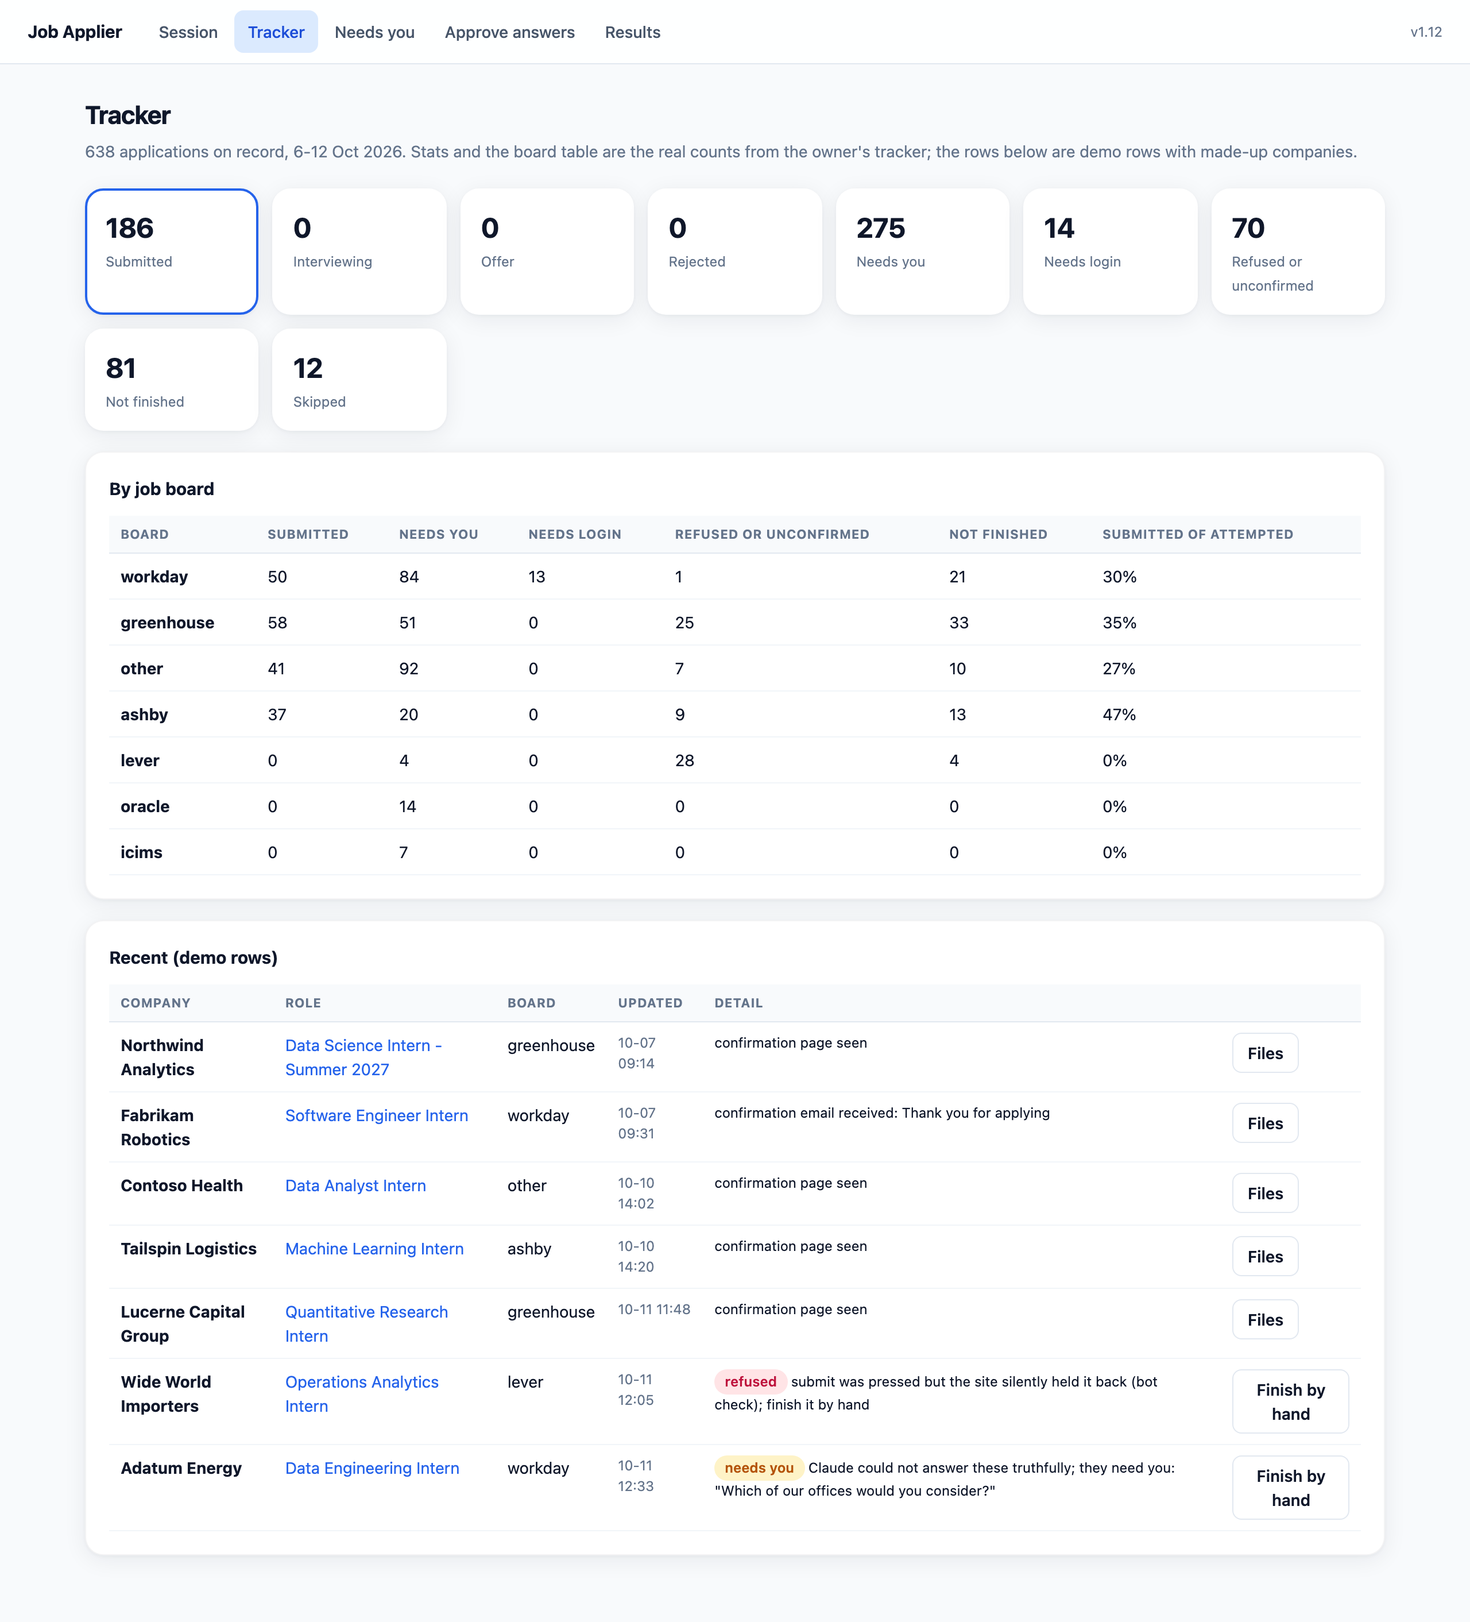
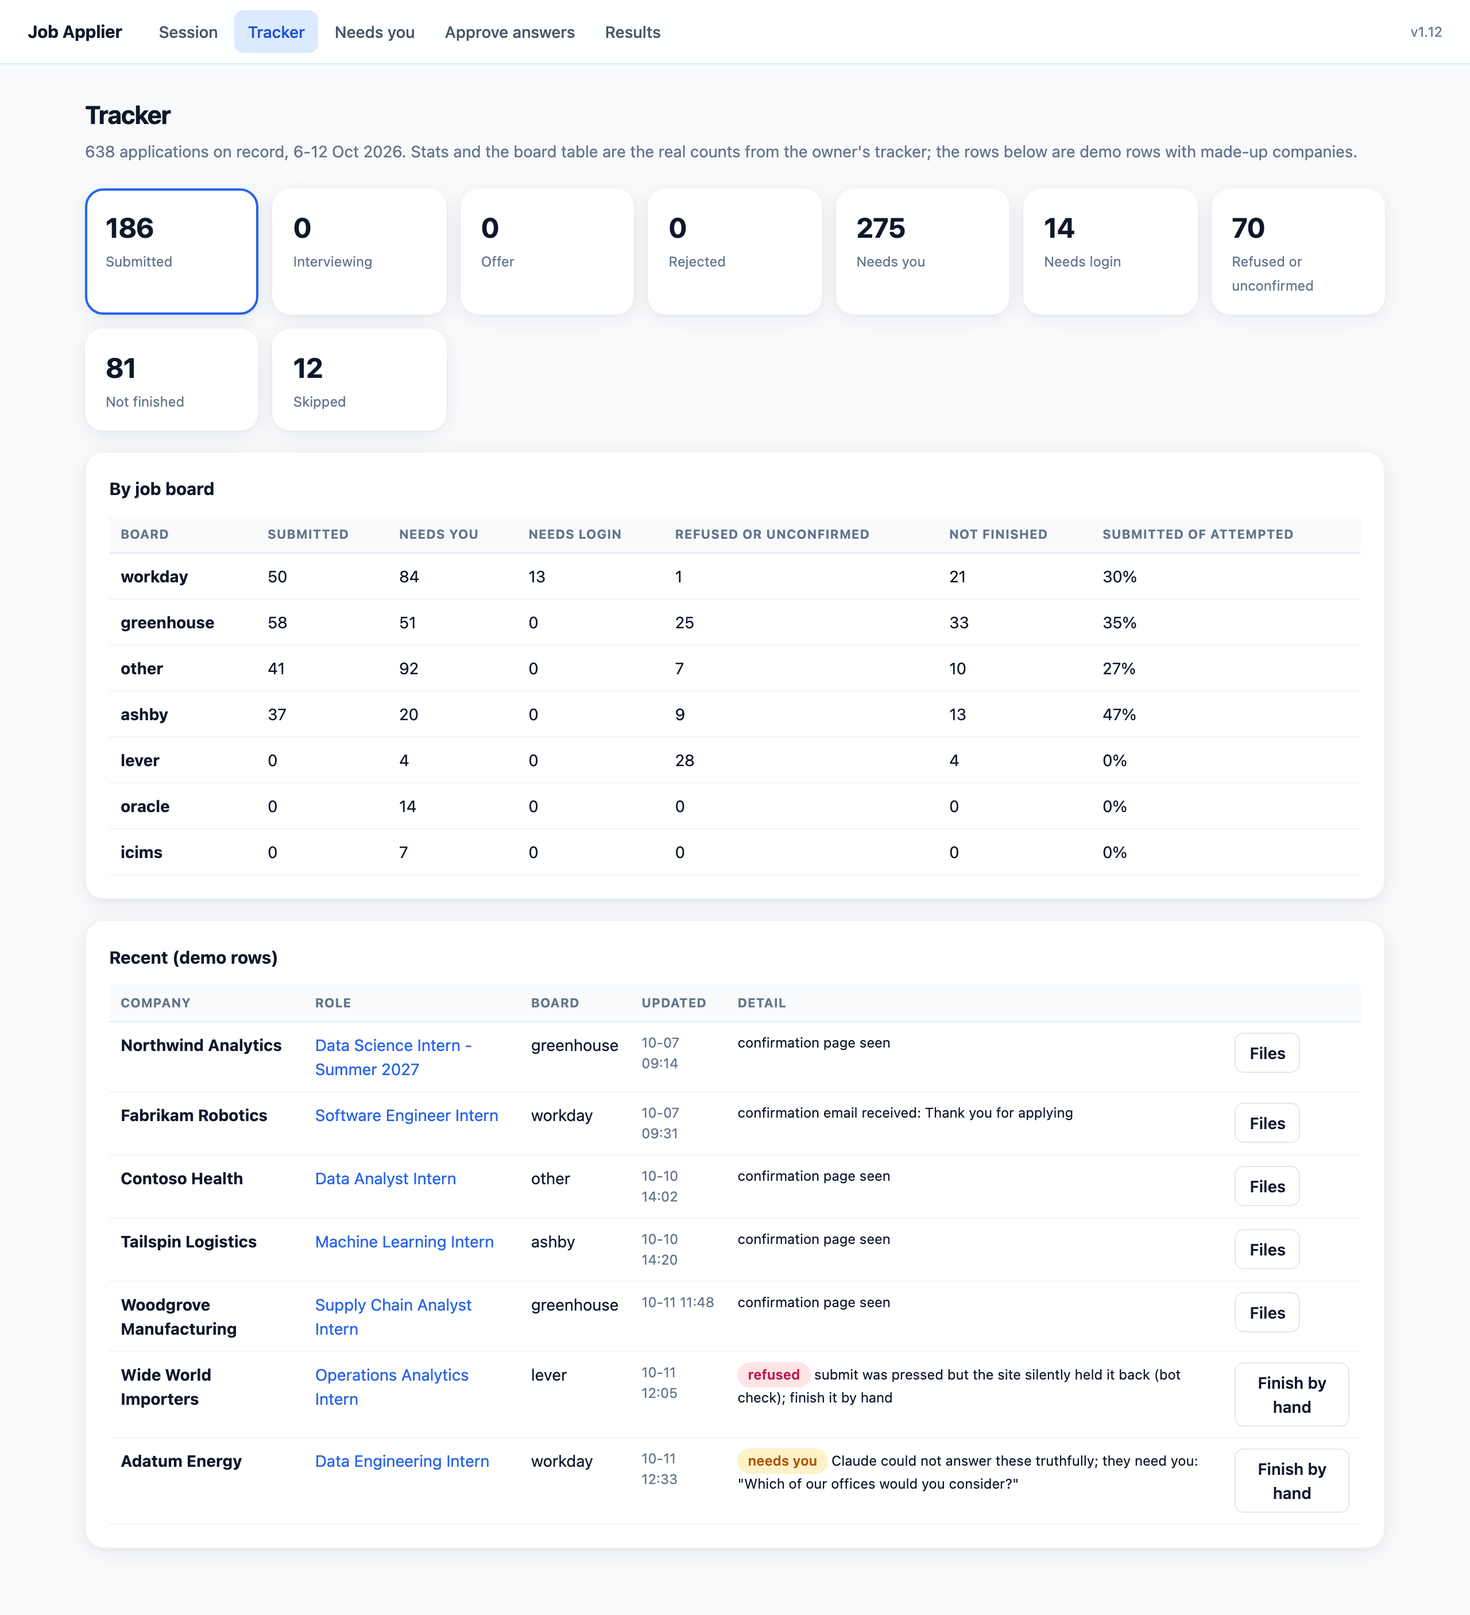
Policy doc rewritten in project voice as docs/platform-policy.md (operator obligations and competitor survey dropped, sources kept); demo tracker row made non-finance and re-rendered; scrub checklist records both greps

diff --git a/assets/demo_tracker.html b/assets/demo_tracker.html
@@ -50,7 +50,7 @@ td{padding:9px 10px;border-bottom:1px solid var(--surface-2);vertical-align:top}
 <tr><td><b>Fabrikam Robotics</b></td><td><a>Software Engineer Intern</a></td><td>workday</td><td class="small muted">10-07 09:31</td><td class="small">confirmation email received: Thank you for applying</td><td><button class="btn">Files</button></td></tr>
 <tr><td><b>Contoso Health</b></td><td><a>Data Analyst Intern</a></td><td>other</td><td class="small muted">10-10 14:02</td><td class="small">confirmation page seen</td><td><button class="btn">Files</button></td></tr>
 <tr><td><b>Tailspin Logistics</b></td><td><a>Machine Learning Intern</a></td><td>ashby</td><td class="small muted">10-10 14:20</td><td class="small">confirmation page seen</td><td><button class="btn">Files</button></td></tr>
-<tr><td><b>Lucerne Capital Group</b></td><td><a>Quantitative Research Intern</a></td><td>greenhouse</td><td class="small muted">10-11 11:48</td><td class="small">confirmation page seen</td><td><button class="btn">Files</button></td></tr>
+<tr><td><b>Woodgrove Manufacturing</b></td><td><a>Supply Chain Analyst Intern</a></td><td>greenhouse</td><td class="small muted">10-11 11:48</td><td class="small">confirmation page seen</td><td><button class="btn">Files</button></td></tr>
 <tr><td><b>Wide World Importers</b></td><td><a>Operations Analytics Intern</a></td><td>lever</td><td class="small muted">10-11 12:05</td><td class="small"><span class="pill refused">refused</span> submit was pressed but the site silently held it back (bot check); finish it by hand</td><td><button class="btn">Finish by hand</button></td></tr>
 <tr><td><b>Adatum Energy</b></td><td><a>Data Engineering Intern</a></td><td>workday</td><td class="small muted">10-11 12:33</td><td class="small"><span class="pill needs_you">needs you</span> Claude could not answer these truthfully; they need you: "Which of our offices would you consider?"</td><td><button class="btn">Finish by hand</button></td></tr>
 </table></div>

diff --git a/docs/platform-policy.md b/docs/platform-policy.md
@@ -1,0 +1,90 @@
+# Job boards and hiring systems: what each platform allows an applicant-side tool to do (research, 2026-10-14)
+
+Written from the applicant's side: the app acts for one person, in their name, with their data and their
+consent, on their own machine. Not legal advice; every quote is from the platform's own published document,
+checked on 2026-10-14. Quotes are at most 15 words. This research is what `applier/boards.py` encodes.
+
+## How the exposure works
+
+Three layers decide what the app may do on a site:
+
+1. **The vendor's terms.** Workday, Greenhouse, Lever, Ashby, SmartRecruiters, Workable, iCIMS, Oracle and SAP
+   host the employer's form. None of them publishes terms that a candidate accepts on the hosted apply page; each
+   says the employer is the controller and the employer's text governs. A few vendor website terms would bind a
+   tool directly if they reached the career sites (Workday: no "applications that interact with our Sites";
+   SAP: no "agent-frameworks", no bypassing controls; Oracle: no "automated means"), but each is scoped to the
+   vendor's own www site, not the hosted career pages. Job boards (LinkedIn, Indeed, ZipRecruiter, Dice,
+   Glassdoor, Handshake) are different: the person accepts the board's own terms, and those terms name automation.
+2. **The employer's terms.** On Workday the employer configures a terms checkbox on the application; on Lever,
+   Greenhouse, SmartRecruiters and Workable the consent line links the employer's policy. If an employer's text
+   forbids automated submission, an automated submit is the breach, even though the vendor is silent. That is why
+   the app scans the wording on the form before every Submit.
+3. **Law behind the terms.** In the US a terms violation is a contract matter for the person whose account it
+   is, not by itself a computer-crime matter (Van Buren v. United States, 2021). Two things change that:
+   circumventing a technical block (CAPTCHA, bot wall, IP ban, user-agent spoofing) and lying to the site. hiQ v.
+   LinkedIn ended in 2022 with a $500,000 judgment and a permanent injunction under the User Agreement's
+   anti-scraping and fake-account clauses, after the court found those clauses enforceable in contract. Deceiving
+   an employer (a false "no tool was used", invented facts) is the person's misrepresentation, and the tool that
+   produced it shares the blame. The app's rules forbid all of these; they are what keeps the exposure contractual
+   and small.
+
+## Verdict per platform
+
+| Platform | Who governs the apply page | What their text says about automation | Bot check seen | What the app does |
+|---|---|---|---|---|
+| Greenhouse | Employer (vendor has no board terms; Privacy Policy says the employer is controller) | Nothing for board applicants. The separate My Greenhouse account agreement bans "automated means" (§3(z)); the app never uses those accounts | Invisible reCAPTCHA Enterprise; fallback to an emailed code or a visible captcha, per the employer's spam setting | **Auto-submit.** Honour a visible captcha by setting the job aside; the emailed-code path is fine (the app reads the code from the person's inbox when they allow it) |
+| Workday | Employer's configured terms checkbox (Workday Website Terms cover www.workday.com only) | Vendor: not addressed for career sites. Website Terms §2 forbid "robots" and "applications that interact with our Sites without our prior written consent", scoped to their own site | None observed through account creation; email verification instead | **Auto-submit is allowed by the vendor.** The real control is per employer: read the terms text on the apply page and hand-submit where it forbids automation |
+| SmartRecruiters | Employer privacy notice; vendor Candidate Terms (2019) only for the optional portal account | "Use automatic means to access content or data from other users" is the only clause, aimed at other users' data | DataDome through Cloudflare on registration and apply flows (vendor case study, Feb 2026) | **Auto-submit.** A DataDome block is a "no": set aside, never retry with tricks |
+| Workable | Employer; vendor terms bind employers only | Not addressed. Vendor help centre distinguishes "AI-assisted applications" from "bot-driven spam" and tags the former rather than blocking | Cloudflare Turnstile on apply.workable.com | **Auto-submit.** The vendor's own stance is the most permissive of all |
+| Lever | Employer; vendor terms are employer agreements | Not addressed | hCaptcha on every submit (jobs.lever.co) | **No automated submit** (a captcha on every submit is the site saying no). Fill everything and let the person press Submit in their own browser |
+| Ashby | Employer; vendor terms bind employers | Not addressed; vendor Spam Protection levels documented | reCAPTCHA Enterprise behind the employer's spam-protection level | Same as Lever: **hand-submit**, the person presses Submit |
+| iCIMS | Employer; vendor ToU covers icims.com only | Employer AUP §2(viii): no "robot, spider, automatic device, or technology to act as a headless user", and employers "shall not authorize its Candidates to violate" it | None documented | **Do not auto-submit.** The vendor has told every employer that candidate-side headless automation breaches the employer's contract. Hand-submit only, if ever supported |
+| Oracle Recruiting / Taleo | Employer-authored legal disclaimer | Employer sites: not addressed. Oracle's own careers site: Oracle Web Terms §7, no "robot, spider, scraper or other automated means" | hCaptcha on Apply if the employer enables it (ORC) | **Auto-submit on employer sites; never on oracle.com careers.** Not supported by the engine today |
+| SAP SuccessFactors | Employer's Data Privacy Consent Statement | Employer sites: SAP ToU §2 excludes cloud solutions. jobs.sap.com: ToU §4 forbids "bots, scrapers, spiders, crawlers, Model Context Protocol (MCP), agent-frameworks", UA spoofing and bypassing controls, and makes users responsible for "tools acting for you" | reCAPTCHA on account creation/login if enabled; Cloudflare challenge on jobs.sap.com | **Auto-submit on employer sites; never on jobs.sap.com.** Not supported today |
+| LinkedIn | LinkedIn User Agreement (Nov 3, 2025) | §8.2: no "bots or other unauthorized automated methods", no "browser plugins and add-ons", no overriding security, no account sharing. Help centre: extensions that "automate activity" get accounts restricted | Yes, plus rate walls | **Never.** Not for applying, not for discovery. The hiQ injunction is the precedent |
+| Indeed (and Glassdoor, now operated by Indeed) | Indeed Terms (Sep 29, 2026) | A.3(5): automation of Indeed Apply "outside of Indeed's official vendors and tooling is prohibited". D.21: no submitting applications "by automated means", no "bots, scrapers, spiders, AI or Agentic AI". D.22(4): third-party agents only through a "Permitted AI Connector" Indeed approves | Persona bot check after applying | **Never.** Only an Indeed-approved connector may automate it, and Indeed sells its own "Apply For Me" |
+| ZipRecruiter | ZipRecruiter Terms (Aug 11, 2026) | §1: no "automated means" to view or access, no access "through any technology or means other than those provided", no credential sharing | Not documented | **Do not use** |
+| Dice | Dice Terms (Dec 3, 2025) | §8.2(j): no "software, tool … agent … intelligent agents" not approved by Dice; only stock browsers approved. §8.2(p): no responding "on behalf of anyone other than yourself" | Not documented | **Do not use.** The agent clause is written for exactly this kind of tool |
+| Handshake | Handshake ToS (Jul 22, 2025) | Only scripted account creation and scraping are banned; applicant tools not addressed | Cloudflare bot checks | Not needed now; if ever, hand-submit |
+
+## What this means for the app
+
+- **Run automatically** on Greenhouse, SmartRecruiters and Workable, and on Workday where the employer's terms
+  are silent.
+- **Hand-submit** is the lawful way to reach Lever and Ashby: the person presses Submit and answers the captcha
+  themselves. The app fills and verifies, then stops.
+- **Never touch** LinkedIn, Indeed, Glassdoor, ZipRecruiter or Dice, for applying or for discovery. The earlier
+  idea of LinkedIn job-search pages "as a source only" is out: §8.2 bans crawlers and plugins regardless of purpose.
+- **Scan the employer's terms.** Read the apply page's consent or certification text before submitting; a sentence
+  that forbids automated or third-party submission switches that one job to hand-submit, whatever the vendor
+  allows. The wording that was agreed to is kept with the application.
+- **Honour every block.** A captcha, a bot wall, a DataDome or Turnstile challenge, a "suspicious activity"
+  message: set the job aside and tell the person. No stealth, no proxies, no retries that look different. This
+  is what keeps the app on the contract side of the line rather than the circumvention side.
+- **Be honest to employers.** Never a false "no tool was used", never an invented fact, never a disguised client.
+  If a form asks whether an AI tool was used, the answer is yes.
+- **Be a polite client.** One application per company per run, low concurrency, no bulk submissions, no retries
+  on a refused submit. Several terms (ZipRecruiter, Dice) measure "more requests than a human".
+
+## Sources
+
+- Workday Website Terms, https://www.workday.com/en-us/legal/site-terms.html (08/13/2026); Workday admin guides
+  on career-site terms, https://doc.workday.com/admin-guide/en-us/human-capital-management/recruiting/career-sites/mwk1531772332109.html
+- Greenhouse legal hub, https://www.greenhouse.com/legal; My Greenhouse User Agreement, https://my.greenhouse.io/users/agreement
+  (Jan 29, 2025); Invisible reCAPTCHA, https://support.greenhouse.io/hc/en-us/articles/115005448066
+- Lever / Employ terms, https://www.employinc.com/terms-of-service/ (Feb 19, 2025); hCaptcha observed on jobs.lever.co apply pages
+- Ashby terms, https://www.ashbyhq.com/resources/terms (Sep 29, 2025); spam protection, https://docs.ashbyhq.com/job-board-application-spam-protection
+- SmartRecruiters Candidate Terms, https://www.smartrecruiters.com/legal/terms-of-use/ (May 14, 2019); DataDome case study,
+  https://securityboulevard.com/2026/02/smartrecruiters-crushes-spam-job-applications-without-disrupting-real-users/
+- Workable terms, https://www.workable.com/terms (Mar 2, 2026); AI-assisted applications, https://help.workable.com/hc/en-us/articles/35293126257815
+- iCIMS Acceptable Use Policy (20 April 2026), https://cdn31.icims.com/wp-content/uploads/2026/03/20120058/iCIMS-Acceptable-Use-Policy.pdf;
+  Subscription Agreement, https://cdn31.icims.com/wp-content/uploads/2026/04/20111800/iCIMS-Subscription-Agreement-20APRIL2026.pdf
+- Oracle Web Sites Terms of Use, https://www.oracle.com/legal/terms.html (Aug 10, 2024); ORC hCaptcha,
+  https://docs.oracle.com/en/cloud/saas/talent-management/faimh/enable-hcaptcha.html
+- SAP Terms of Use, https://www.sap.com/corporate/en/legal/terms-of-use.html (Feb 26, 2026); KBA 2082087 on career-site CAPTCHA
+- LinkedIn User Agreement, https://www.linkedin.com/legal/user-agreement (Nov 3, 2025); automation policy,
+  https://www.linkedin.com/help/linkedin/answer/90586; hiQ settlement, https://www.proskauer.com/blog/hiq-and-linkedin-reach-proposed-settlement-in-landmark-scraping-case
+- Indeed Terms, https://www.indeed.com/legal (Sep 29, 2026); job-seeker guidelines,
+  https://www.indeed.com/help/job-seekers/articles/360028540531-indeed-job-seeker-guidelines
+- ZipRecruiter Terms, https://www.ziprecruiter.com/terms (Aug 11, 2026); Dice Terms, https://www.dice.com/about/terms-and-conditions (Dec 3, 2025);
+  Glassdoor Terms, https://www.glassdoor.com/about/terms/ (Jul 1, 2026); Handshake ToS, https://joinhandshake.com/tos/ (Jul 22, 2025)

diff --git a/SCRUB_CHECKLIST.md b/SCRUB_CHECKLIST.md
@@ -1,8 +1,7 @@
 # Scrub checklist
 
 This repository was assembled by hand from the private `job-applier` repository on 2026-10-17. Nothing was
-copied wholesale except `docs/LEGAL-job-boards.md` (no personal content; a provenance note was added on top) and
-the `terms_forbid_automation` excerpt from `applier/boards.py` (no URLs, keys or personal strings in it).
+copied wholesale except the `terms_forbid_automation` excerpt from `applier/boards.py` (no URLs, keys or personal strings in it).
 
 ## Excluded on purpose
 
@@ -15,9 +14,10 @@ the `terms_forbid_automation` excerpt from `applier/boards.py` (no URLs, keys or
 | `files/` | the owner's resume (`.tex`, PDFs) and uploaded documents |
 | `.env` | API keys and app passwords (never read by any script here) |
 | the tracker CSV (`Applications/applier_tracker.csv`) | 638 rows naming the companies applied to; only the query over it (`scripts/numbers.py`) and its aggregate output are published |
+| `docs/LEGAL-job-boards.md` | rewritten as `docs/platform-policy.md`. The private file is written in operator voice for a product with users who pay ("our servers", an early-access list, third-party data processors, credentials held for people, a survey of competing applier companies). This project is presented as a personal agentic app, so the public copy keeps the research (how the exposure works, the per-platform verdict table, the rules the app follows, every source link) in project voice and drops the company obligations and the competitor survey entirely. No quote is longer than 15 words. |
 | `presets/`, `*.example.yaml` | harmless, but not needed for the showcase |
 | all application source (`applier/*.py`, `applier/cloud/*.py`, `applier/js/extract.js`, `applier/web/index.html`, `tests/`) | the product stays private; the showcase describes it instead |
-| `job-applier-site/` (Next.js) | contains `.env.local`, the DMG and zip artifacts and the beta list |
+| `job-applier-site/` (Next.js) | contains `.env.local`, the DMG and zip artifacts and the early-access list |
 | `CLAUDE.md`, `docs/HANDOFF-*.md`, `docs/PLAN-*.md`, `docs/SETUP_OAUTH.md`, `docs/PROVIDER-meta.md`, build scripts, `Dockerfile.worker`, `fly.toml` | internal notes, OAuth setup and deployment details |
 
 The screenshot is rendered from `assets/demo_tracker.html`, a static page with made-up company names. The stat
@@ -41,11 +41,28 @@ grep -rInE --exclude-dir=.git --exclude=SCRUB_CHECKLIST.md \
   .
 ```
 
-Output on 2026-10-17 (grep exit status 1, no line matched):
+Output on 2026-10-17, after the policy doc rewrite and the demo-row change (grep exit status 1, no line matched):
 
 ```
-(empty)
+exit=1
 ```
 
-`SCRUB_CHECKLIST.md` is excluded because its own pattern line matches the key-shape patterns; it holds no
-value, only the patterns above. The binary `assets/tracker.png` is a render of `assets/demo_tracker.html`, which the grep covers.
+A second grep for product, money and finance words, run exactly as written (no exclusions):
+
+```
+grep -rnEi "customer|paying|fly\.io|fly machines|beta|sub-processor|gmail\.readonly|quant|trading|capital" --exclude-dir=.git .
+```
+
+```
+docs/platform-policy.md:72:  on career-site terms, https://doc.workday.com/admin-guide/en-us/human-capital-management/recruiting/career-sites/mwk1531772332109.html
+exit=0
+```
+
+The one match is the path segment `human-capital-management` inside a Workday documentation URL in the Sources
+list of `docs/platform-policy.md`, kept because every source link is kept. (Before this file was written, that
+grep had no other match; it would match the words in this file's own text once they are pasted, which is why the
+output above was captured first.)
+
+`SCRUB_CHECKLIST.md` is excluded from the first grep because its own pattern line matches the key-shape patterns;
+it holds no value, only the patterns above. The binary `assets/tracker.png` is a render of `assets/demo_tracker.html`,
+which both greps cover.

diff --git a/README.md b/README.md
@@ -19,7 +19,7 @@ Oct 2026; the rows are demo rows with made-up companies, rendered from `assets/d
 ## How it decides
 
 The policy lives in one module, `applier/boards.py`, and comes from reading each platform's own published terms
-(the research is in [docs/LEGAL-job-boards.md](docs/LEGAL-job-boards.md), quotes and sources included). Three
+(the research is in [docs/platform-policy.md](docs/platform-policy.md), quotes and sources included). Three
 modes:
 
 | Mode | Hiring systems | Why | What the app does |
@@ -162,7 +162,7 @@ if forbids := boards.terms_forbid_automation("\n".join(self.terms_seen) + "\n" +
 
 ```
 README.md                  this page
-docs/LEGAL-job-boards.md   the per-platform research behind the policy, with sources
+docs/platform-policy.md   the per-platform research behind the policy, with sources
 docs/architecture.md       full component diagram and the decision path for one application
 scripts/numbers.py         the exact query behind the Numbers section (takes the tracker CSV as an argument)
 scripts/screenshot.py      renders the demo tracker page to assets/tracker.png with headless Chromium

diff --git a/docs/architecture.md b/docs/architecture.md
@@ -9,7 +9,7 @@ the cloud version: sign-up, profile, runs and the "ready for you" list.
 flowchart TB
     subgraph discover["1. Find roles"]
         jobs["jobs.py<br/>Greenhouse / Lever / Ashby board feeds<br/>+ postings from URLs"]
-        boards["boards.py<br/>auto / hand / never per hiring system<br/>(from docs/LEGAL-job-boards.md)"]
+        boards["boards.py<br/>auto / hand / never per hiring system<br/>(from docs/platform-policy.md)"]
         tracker["tracker.py<br/>SQLite (Mac) or Postgres (cloud)<br/>never apply twice"]
     end
     subgraph tailor["2. Tailor"]
